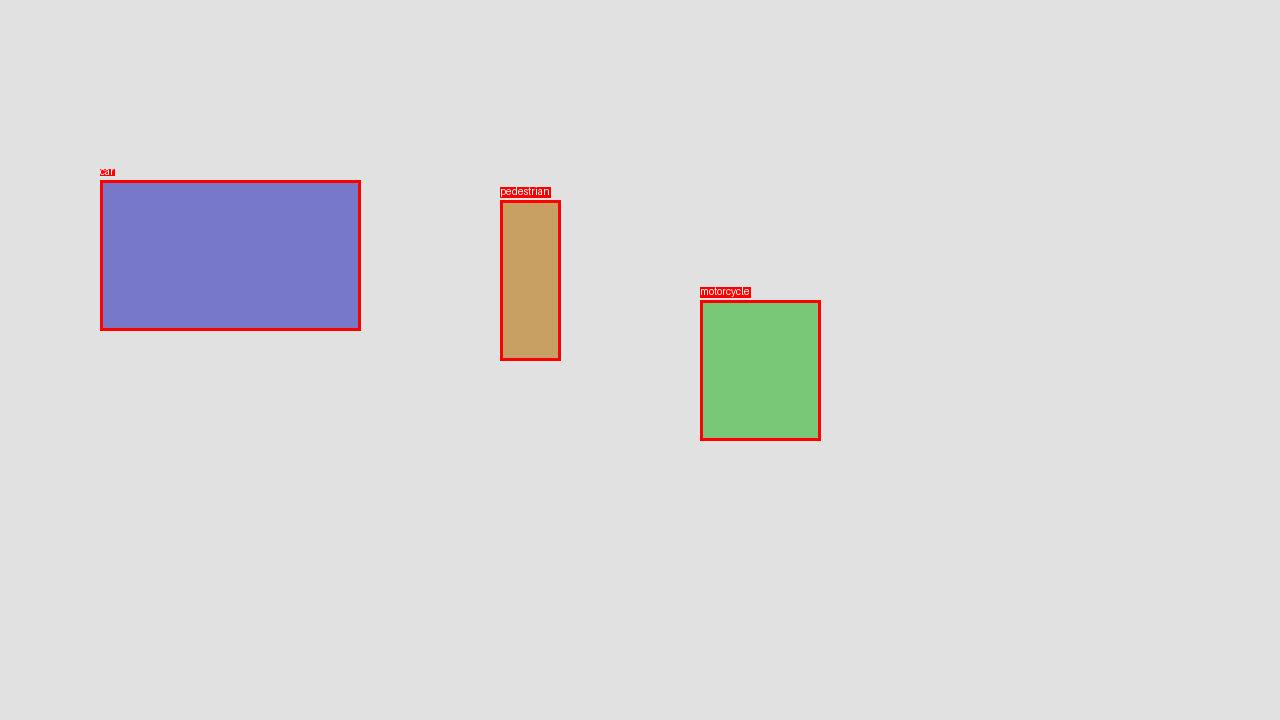
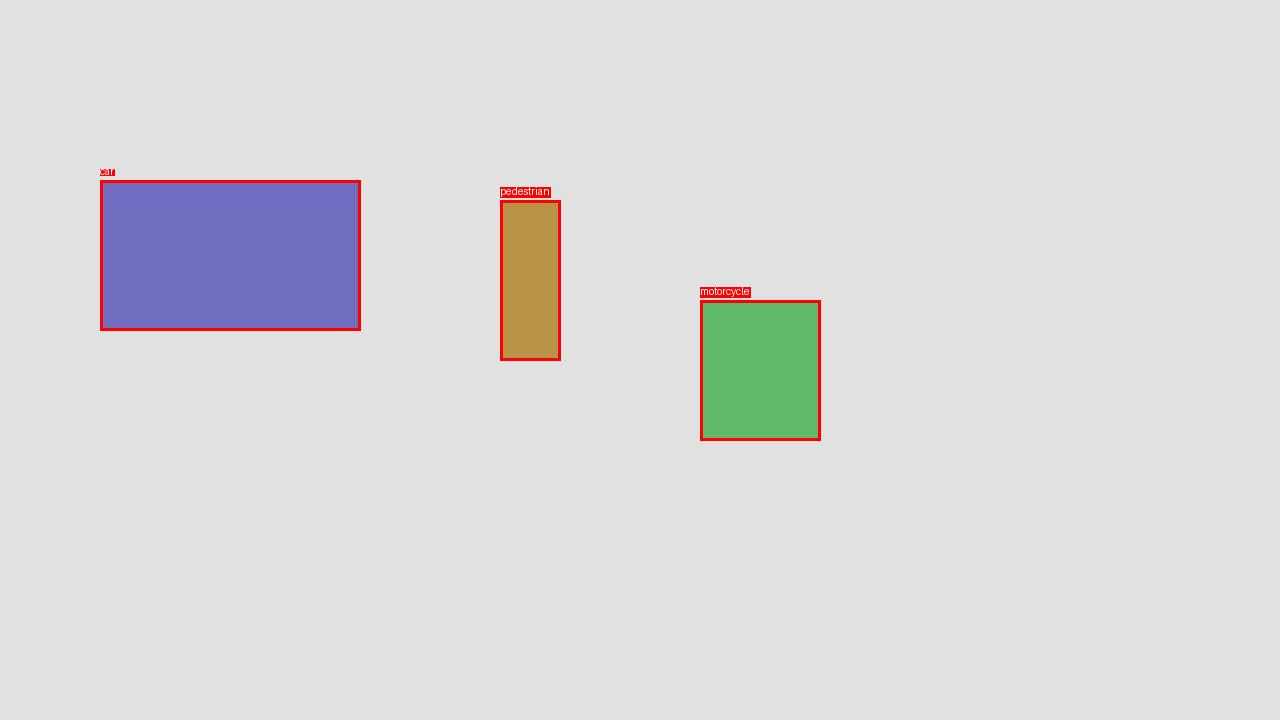
v0.1: update bounding-box colours to match reference

Changed region(s): [[0.5312, 0.3972, 0.6562, 0.6111], [0.375, 0.275, 0.4375, 0.5194]]

diff --git a/make_sample_idd.py b/make_sample_idd.py
@@ -46,8 +46,11 @@ annotations = [
     {"id": 8, "image_id": 3, "category_id": 4, "bbox": [200, 150, 400, 300], "area": 120000, "iscrowd": 0},
 ]
  
-fill = {1: (120, 120, 200), 2: (120, 200, 120), 3: (200, 160, 100),
-        4: (200, 120, 120), 5: (150, 150, 150)}
+fill = {1: (112, 110, 190),   # car        — blue-purple
+        2: ( 95, 185, 105),   # motorcycle — green
+        3: (185, 148,  70),   # pedestrian — golden brown
+        4: (200, 120, 120),   # bus        — red
+        5: (150, 150, 150)}   # truck      — grey
 
 for info in images:
     canvas = Image.new("RGB", (info["width"], info["height"]), (225, 225, 225))
